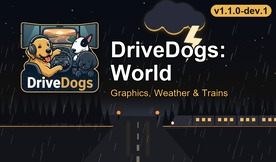
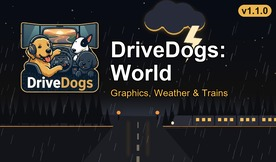
record why busy bus stations is carried as locators and release world 1.1.0

Changed region(s): [[0.7536, 0.0, 0.9855, 0.1235]]

diff --git a/docs/adr/ADR-0003-world-bus-stop-people.md b/docs/adr/ADR-0003-world-bus-stop-people.md
@@ -1,0 +1,42 @@
+# ADR-0003: World carries Busy Bus Stations' locators onto the base bus-stop models instead of merging the mod
+
+- Status: accepted
+- Date: 2026-10-03
+
+## Context
+
+- Busy Bus Stations (d-luX, Workshop 2893480838, version 1.00, last updated 2022-11-26) puts people at bus stops: sitting
+  and standing men and women by day, at night and in rain, a parked coach (Opalin or Tourliner) and a lamp.
+- It ships whole copies of 23 base-game bus-stop models (`prefab/bus_station/base_03/*`, the French and German stop
+  templates) with its attachment points (locators) added, 36 materials, 6 textures and 4 definition files.
+- It still loads in 1.61, but its models are 2022 re-exports. They put back the old shared road materials where 1.61
+  gives each model its own, revert some geometry SCS changed since, and drop 1.61's (unused) cutscene locators in 6
+  models. Its textures are the 1.61 images in the old, non-sRGB encoding. Every later SCS change to these models
+  would also be undone.
+- The mod's added locators use the same coordinates as the 1.61 models (identical bounding boxes, many parts
+  vertex-exact), and none of World's other sources ship these models.
+
+## Decision
+
+1. **Carry the locators, not the models.** `tools/bus_stop_people.py` reads each of the mod's 23 models and adds its
+   locators, part by part, to the 1.61 base model of the same path (`pmg.py` `with_locators`, megapack 0.8). Base
+   geometry, materials and existing locators stay. Output goes to `overrides/` (git-ignored: 6.5 MB of base-game
+   models, regenerated after a clone) with a manifest `world/bus_stop_people.tsv`, and `--check` covers both.
+2. **Definitions as new files.** The mod's 4 `.sii` files (mover groups, mover hookups, parked coach, lamp) are
+   copied unchanged to `world/units/`, keeping their unit names. `harvest_brands.py` now owns only
+   `world/units/def/vehicle/`.
+3. **Never merged, always credited:** a `references:` entry (`busy-bus-stations`, 1.00) lists the mod in the
+   description and makes `megapack updates` report a new version. Its textures and materials are not used.
+4. **Lamp locators stay where the mod put them** (in the stop's collision part in most models). In game they
+   draw and light at night.
+
+## Consequences
+
+- People, the parked coach and the lamp appear at the 18 places 1.61 uses these models (UK, Poland, France,
+  Hungary, Czechia, Slovakia; none in the Netherlands). Seen in game on 1.1.0-dev.1 (2026-10-03): people at the
+  Swansea-area stops, lamp at night, no errors in the log.
+- After a game update: extract the new base and rerun the tool. A model or part the base no longer has is an error,
+  and new SCS geometry is kept automatically.
+- After a mod update: extract the new version, set `MOD_VERSION`, rerun. The tool exits if the mod starts shipping a
+  base or source definition file (those would need edits, not copies).
+- Other bus-stop prefabs (e.g. city bus terminals) get nothing: the mod only covers these 23 models.

diff --git a/README.md b/README.md
@@ -21,7 +21,8 @@ Current content (v1.1.0, ETS2 1.61):
 
 Every game setting these mods change is carried as an edit of the current game files, never as an old whole copy,
 so what a game update adds keeps working. Decisions: [ADR-0001](docs/adr/ADR-0001-world-megapack.md) (megapack,
-trains), [ADR-0002](docs/adr/ADR-0002-world-graphics.md) (graphics, weather, brands).
+trains), [ADR-0002](docs/adr/ADR-0002-world-graphics.md) (graphics, weather, brands),
+[ADR-0003](docs/adr/ADR-0003-world-bus-stop-people.md) (bus-stop people).
 
 ## Install
 
